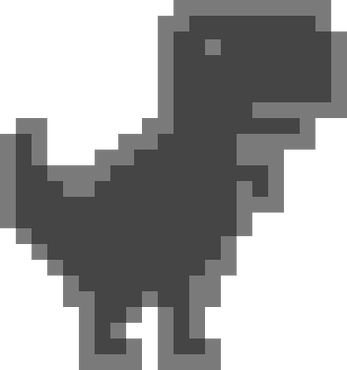
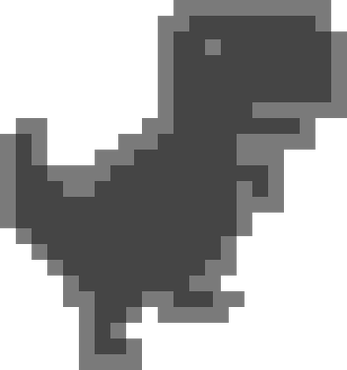
implemented dino jumping, color theme, game speed and score, refactored sass

Changed region(s): [[0.4323, 0.773, 0.7205, 1.0]]

diff --git a/js/dino.js b/js/dino.js
@@ -1,17 +1,28 @@
+const theme = 'light'; 
+
 const gameArea = {
     // створити елемент canvas
     canvas: document.createElement('canvas'),
 
+    // фонова картинка, позиція фону
+    bgImage: new Image(),
     bgPosition: 0,
 
-    // функція, що запускає гру
-    start: function () {
+    // швидкість та рахунок гри
+    speed: 2,
+    score: 0,
+
+    // функція, що ініціалізує гру
+    init: function () {
+        this.bgImage.src = './img/ground.png';
+        dino.image.src = './img/dino-idle.png';
+
         // задати розміри canvas
         this.canvas.width = 720;
         this.canvas.height = 240;
 
         // тимчасовий кольоровий індикатор
-        this.canvas.style.backgroundColor = 'fuchsia';
+        // this.canvas.style.backgroundColor = 'fuchsia';
 
         // додати canvas до <body>
         document.querySelector(".dino").appendChild(this.canvas);
@@ -19,10 +30,7 @@ const gameArea = {
         // отримати контекст рендерінгу
         this.ctx = this.canvas.getContext('2d');
 
-        // задати інтервал оновлення екрану (у мілісекундах)
-        this.interval = setInterval(updateGameArea, 20);
-
-        // код для відслідковування натисків клавіш
+        // відслідковування натисків клавіш
         window.addEventListener('keydown', (e) => {
             e.preventDefault();
             
@@ -30,9 +38,17 @@ const gameArea = {
             if (e.key == " ") {
                 dino.jump();
             }
-        })
+        });
+        
+        updateGameArea();
+    },
 
-        dino.image.src = './img/dino-run-1.png';
+    // функція, що запускає гру
+    start: function () {
+        // задати інтервал оновлення екрану, швидкості та рахунку (у мілісекундах)
+        this.intervalUpdate = setInterval(updateGameArea, 20);
+        this.intervalSpeed = setInterval(updateGameSpeed, 1500);
+        this.intervalScore = setInterval(updateScore, 200);
     },
 
     // функція для стирання екрану
@@ -45,15 +61,19 @@ const dino = {
     // створення картинки для динозаврика
     image: new Image(),
 
+    // анімація бігу як список картинок
+    animationRun: ['./img/dino-run-1.png', './img/dino-run-2.png'],
+    animationFrame: 0,
+
     // розміри динозаврика
     height: 45,
     width: 45 * 0.93,
 
     // система координат та прискорення: точка відліку, позиція, швидкість 
-    originY: 100,
-    posY: 100,
+    originY: 185,
+    posY: 185,
     spdY: 0,
-    posX: 100,
+    posX: 45,
 
     // для стрибання: умова, чи знаходиться динозаврик у повітрі, та сила гравітації
     isJumping: false,
@@ -62,6 +82,9 @@ const dino = {
     // функція оновлення стану, виконується кожного оновлення гри
     update: function () {
         if (this.isJumping) {
+            // при стрибку задати картинку стрибка
+            this.image.src = './img/dino-idle.png';
+
             // прискорення вниз через гравітацію та зміна позиції через прискорення
             this.spdY += this.gravity;
             this.posY += this.spdY;
@@ -71,6 +94,12 @@ const dino = {
                 this.posY = this.originY;
                 this.isJumping = false;
                 this.spdY = 0;
+            }
+        } else {
+            // анімація
+            this.animationFrame += 1;
+            if (this.animationFrame % 5 == 0) {
+                this.image.src = this.animationRun[this.animationFrame % this.animationRun.length];
             }
         }
     },
@@ -85,17 +114,58 @@ const dino = {
     }
 }
 
+// функція оновлення рахунку
+function updateScore () {
+    gameArea.score += (gameArea.speed / 2);
+}
+
+
+// функція оновлення швидкості
+function updateGameSpeed () {
+    if (gameArea.speed < 4)
+    gameArea.speed += 0.02;
+}
+
 // функція для оновлення гри
 function updateGameArea () {
     // оновити стан динозаврика
     dino.update();
 
+    // змінити позицію фону відповідно до швидкості гри
+    gameArea.bgPosition -= gameArea.speed * 3;
+
     // стерти все з екрану
     gameArea.clear();
+
+    // вивести рахунок на екран
+    gameArea.ctx.font = '16px serif';
+    switch(theme) {
+        case 'dark':
+            gameArea.ctx.fillStyle = 'white';
+            gameArea.canvas.style.backgroundColor = '#121212';
+            break;
+        case 'light':
+            gameArea.ctx.fillStyle = '#121212';
+            gameArea.ctx.style.backgroundColor = 'white';
+            break;
+    }
+    gameArea.ctx.fillText(Math.floor(gameArea.score), gameArea.canvas.width - String(Math.floor(gameArea.score)).length * 8 - 8, 24);
+
+    // зациклювання фону
+    if (gameArea.bgPosition < -gameArea.bgImage.width) {
+        gameArea.bgPosition = 0;
+    }
+
+    // відмальовування другого фону в протифазі до першого для створення ілюзії безкінечного фону
+    gameArea.ctx.drawImage(gameArea.bgImage, gameArea.bgPosition, 120, gameArea.bgImage.width, gameArea.canvas.height / 2);
+    gameArea.ctx.drawImage(gameArea.bgImage, gameArea.bgPosition + gameArea.bgImage.width, 120, gameArea.bgImage.width, gameArea.canvas.height / 2);
 
     // відмалювати динозаврика
     gameArea.ctx.drawImage(dino.image, dino.posX, dino.posY, dino.width, dino.height);
 }
 
-// запустити гру
-gameArea.start();
+// ініціалізувати гру
+gameArea.init();
+
+// запустити гру при натиску на ігрове поле
+gameArea.canvas.addEventListener('click', () => {gameArea.start()})

diff --git a/sass/base/_reset.scss b/sass/base/_reset.scss
@@ -1,30 +1,30 @@
-ul{
+ul {
     margin: 0;
     list-style: none;
     padding: 0;
-    }
-    
-    h1,h2,h3,h4,h5,h6,p{
+}
+
+    h1,h2,h3,h4,h5,h6,p {
     margin: 0;
-    }
-    
-    a{
+}
+
+a {
     text-decoration: none;
-    }
-    
-    button{
+}
+
+button {
     border: none;
     cursor: pointer;
-    }
-    
-    address{
+}
+
+address {
     font-style: normal;
-    }
-    
-    img{
+}
+
+img {
     display: block;
-    }
-    
-    textarea{
+}
+
+textarea {
     resize: none;
-    }
+}

diff --git a/index.html b/index.html
@@ -4,7 +4,6 @@
     <meta charset="UTF-8">
     <meta name="viewport" content="width=device-width, initial-scale=1.0">
     <title>Document</title>
-    <!-- тимчасові стилі, мені так зручніше -->
     <link rel="stylesheet"  href="https://cdnjs.cloudflare.com/ajax/libs/modern-normalize/2.0.0/modern-normalize.min.css">
 </head>
 <body>

diff --git a/sass/componets/_container.scss b/sass/componets/_container.scss
@@ -1,4 +1,4 @@
 .container{
     width: 1113px;
     margin: 0 auto;
-    }
+}
